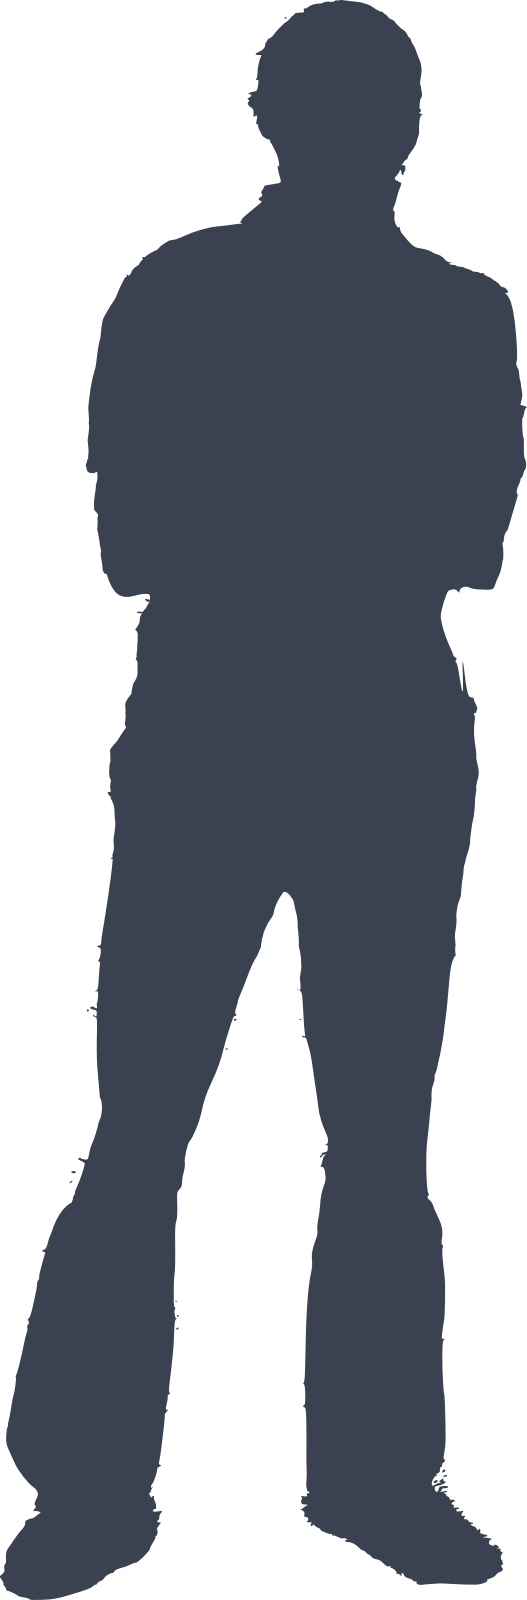
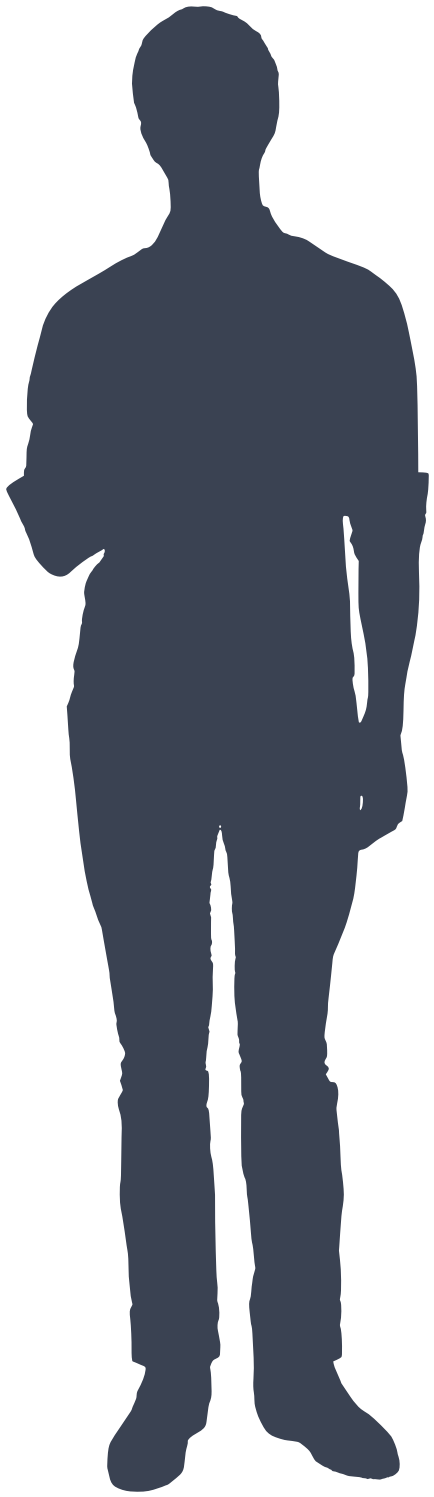
feat(components): forward-facing scale figure (second CC0 outline)
Swapped to 'Silhouette of man standing and facing forward' (Wikimedia
Commons, CC0 1.0 verified) — clothed, relaxed, facing the camera, which
suits a face-me billboard better than the 3/4 pose. The colourisation
(hair/skin/shirt/trousers/shoes bands + soft side shading) now lives in
gen_components.py reading the bundled SVG, so both variants regenerate
reproducibly.

diff --git a/scripts/gen_components.py b/scripts/gen_components.py
@@ -208,77 +208,66 @@ def car() -> Obj:
 
 
 def person_billboard() -> None:
-    """The face-me scale figure: a clean arch-viz silhouette PNG (flat slate,
-    real anthropometric proportions), tight-cropped so the billboard quad's
-    aspect maps exactly to 1.75 m tall."""
-    from PySide6.QtCore import QPointF, Qt
-    from PySide6.QtGui import (QBrush, QColor, QGuiApplication, QImage,
-                               QPainter, QPainterPath)
-    QGuiApplication.instance() or QGuiApplication([])
-    W, H = 640, 1024
-    img = QImage(W, H, QImage.Format_ARGB32)
-    img.fill(Qt.transparent)
-    p = QPainter(img)
-    p.setRenderHint(QPainter.Antialiasing, True)
-    ink = QColor(58, 66, 82)
-    SC = H * 0.97 / 175.0
+    """The face-me scale figure, from the bundled CC0 outline.
 
-    def pt(x, y):
-        return QPointF(W / 2 + x * SC, H * 0.985 - y * SC)
-
-    p.setBrush(QBrush(ink))
-    p.setPen(Qt.NoPen)
-    p.drawEllipse(pt(0, 163.5), 10.5 * SC, 11.5 * SC)
-    b = QPainterPath()
-    b.moveTo(pt(4.5, 152))
-    b.cubicTo(pt(13, 150), pt(20, 148), pt(22.5, 144))
-    b.cubicTo(pt(24.5, 140), pt(24.5, 134), pt(23.5, 126))
-    b.cubicTo(pt(22.5, 112), pt(21.5, 96), pt(20.5, 82))
-    b.cubicTo(pt(20.2, 77), pt(20.5, 73), pt(19.5, 69))
-    b.cubicTo(pt(18.0, 66), pt(16.5, 67), pt(16.3, 70))
-    b.cubicTo(pt(16.4, 74), pt(16.6, 78), pt(16.6, 82))
-    b.cubicTo(pt(17.0, 98), pt(17.4, 116), pt(18.2, 133))
-    b.cubicTo(pt(17.0, 136), pt(16.2, 133), pt(15.8, 124))
-    b.cubicTo(pt(15.2, 114), pt(14.8, 108), pt(15.2, 100))
-    b.cubicTo(pt(16.4, 94), pt(17.2, 90), pt(17.2, 85))
-    b.cubicTo(pt(16.4, 72), pt(13.0, 60), pt(11.0, 48))
-    b.cubicTo(pt(9.4, 36), pt(8.0, 20), pt(7.4, 7))
-    b.lineTo(pt(9.6, 1.2))
-    b.lineTo(pt(2.6, 0))
-    b.cubicTo(pt(2.9, 12), pt(3.1, 26), pt(3.4, 44))
-    b.cubicTo(pt(3.0, 58), pt(1.6, 68), pt(0.0, 76))
-    b.cubicTo(pt(-1.6, 68), pt(-3.0, 58), pt(-3.4, 44))
-    b.cubicTo(pt(-3.1, 26), pt(-2.9, 12), pt(-2.6, 0))
-    b.lineTo(pt(-9.6, 1.2))
-    b.lineTo(pt(-7.4, 7))
-    b.cubicTo(pt(-8.0, 20), pt(-9.4, 36), pt(-11.0, 48))
-    b.cubicTo(pt(-13.0, 60), pt(-16.4, 72), pt(-17.2, 85))
-    b.cubicTo(pt(-17.2, 90), pt(-16.4, 94), pt(-15.2, 100))
-    b.cubicTo(pt(-14.8, 108), pt(-15.2, 114), pt(-15.8, 124))
-    b.cubicTo(pt(-16.2, 133), pt(-17.0, 136), pt(-18.2, 133))
-    b.cubicTo(pt(-17.4, 116), pt(-17.0, 98), pt(-16.6, 82))
-    b.cubicTo(pt(-16.6, 78), pt(-16.4, 74), pt(-16.3, 70))
-    b.cubicTo(pt(-16.5, 67), pt(-18.0, 66), pt(-19.5, 69))
-    b.cubicTo(pt(-20.5, 73), pt(-20.2, 77), pt(-20.5, 82))
-    b.cubicTo(pt(-21.5, 96), pt(-22.5, 112), pt(-23.5, 126))
-    b.cubicTo(pt(-24.5, 134), pt(-24.5, 140), pt(-22.5, 144))
-    b.cubicTo(pt(-20, 148), pt(-13, 150), pt(-4.5, 152))
-    b.closeSubpath()
-    p.drawPath(b)
-    p.end()
-    # Tight crop so quad aspect = real proportions.
+    Renders ``resources/components/person_silhouette.svg`` ('Silhouette of
+    man standing and facing forward', Wikimedia Commons, CC0 1.0 — see
+    SOURCES.md) at high resolution and produces two variants: the flat-colour
+    arch-viz cutout (hair/skin/shirt/trousers/shoes bands + a soft side
+    shading) and the plain slate silhouette."""
     import numpy as np
-    buf = np.frombuffer(img.constBits(), np.uint8).reshape(H, W, 4)
+    from PySide6.QtCore import QRectF
+    from PySide6.QtGui import QGuiApplication, QImage, QPainter
+    from PySide6.QtSvg import QSvgRenderer
+    QGuiApplication.instance() or QGuiApplication([])
+    r = QSvgRenderer(str(OUT / "person_silhouette.svg"))
+    if not r.isValid():
+        print("person_silhouette.svg missing — billboard skipped")
+        return
+    vb = r.viewBoxF()
+    H = 1600
+    W = max(1, int(H * vb.width() / vb.height()))
+    img = QImage(W, H, QImage.Format_ARGB32)
+    img.fill(0)
+    q = QPainter(img)
+    r.render(q, QRectF(0, 0, W, H))
+    q.end()
+    buf = np.frombuffer(img.constBits(), np.uint8).reshape(
+        H, img.bytesPerLine() // 4, 4)[:, :W].copy()
     alpha = buf[:, :, 3]
     ys, xs = np.where(alpha > 8)
-    m = 4
-    crop = img.copy(int(xs.min()) - m, int(ys.min()) - m,
-                    int(xs.max() - xs.min()) + 2 * m,
-                    int(ys.max() - ys.min()) + 2 * m)
-    OUT.mkdir(parents=True, exist_ok=True)
-    crop.save(str(OUT / "person_billboard.png"))
-    print("wrote person_billboard.png",
-          f"({crop.width()}x{crop.height()})")
+    y0, y1, x0, x1 = ys.min(), ys.max(), xs.min(), xs.max()
+    mask = alpha > 0
+    yy = (np.arange(H)[:, None] - y0) / (y1 - y0)
+    for f0, f1, (b, g, rr) in (
+            (0.000, 0.060, (38, 46, 60)),      # hair
+            (0.060, 0.130, (150, 172, 208)),   # face / neck (BGR)
+            (0.130, 0.500, (128, 96, 52)),     # shirt — teal
+            (0.500, 0.955, (66, 60, 54)),      # trousers
+            (0.955, 1.001, (40, 38, 36))):     # shoes
+        band = mask & (yy >= f0) & (yy < f1)
+        buf[:, :, 0][band] = b
+        buf[:, :, 1][band] = g
+        buf[:, :, 2][band] = rr
+    t = np.clip((np.arange(W)[None, :] - x0) / ((x1 - x0) * 0.55), 0, 1)
+    factor = 0.86 + 0.14 * t
+    for c in range(3):
+        ch = buf[:, :, c].astype(np.float32)
+        ch[mask] *= np.broadcast_to(factor, (H, W))[mask]
+        buf[:, :, c] = np.clip(ch, 0, 255).astype(np.uint8)
+    m = 6
+    crop = buf[max(0, y0 - m):y1 + m, max(0, x0 - m):x1 + m]
+    ch2, cw = crop.shape[:2]
+    QImage(crop.tobytes(), cw, ch2, cw * 4, QImage.Format_ARGB32).save(
+        str(OUT / "person_billboard.png"))
+    sil = buf.copy()
+    for c, v in zip(range(3), (82, 66, 58)):
+        sil[:, :, c][mask] = v
+    crop2 = sil[max(0, y0 - m):y1 + m, max(0, x0 - m):x1 + m]
+    QImage(crop2.tobytes(), cw, ch2, cw * 4, QImage.Format_ARGB32).save(
+        str(OUT / "person_silhouette.png"))
+    print("wrote person_billboard.png + person_silhouette.png",
+          f"({cw}x{ch2})")
 
 
 def main() -> None:

diff --git a/resources/components/SOURCES.md b/resources/components/SOURCES.md
@@ -1,7 +1,7 @@
 # Component sources
 
 - `person_billboard.png` (flat-colour arch-viz cutout) and
-  `person_silhouette.png`/`.svg` — derived from "Man standing silhouette.svg"
+  `person_silhouette.png`/`.svg` — derived from "Silhouette of man standing and facing forward.svg"
   (Wikimedia Commons), dedicated to the public domain under **CC0 1.0**
   (no attribution required; noted here for provenance). Recoloured to the
   IngeTrazo slate tone and tight-cropped for the face-me billboard.